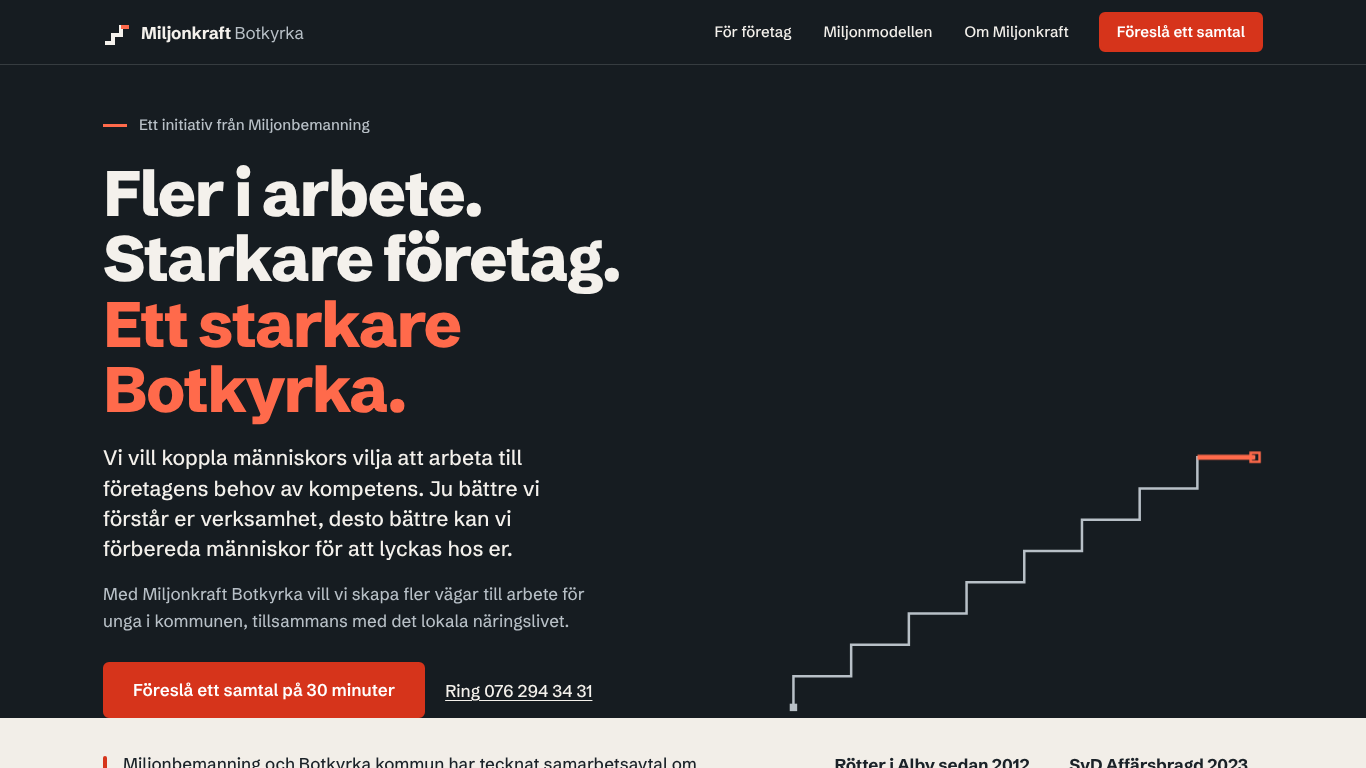
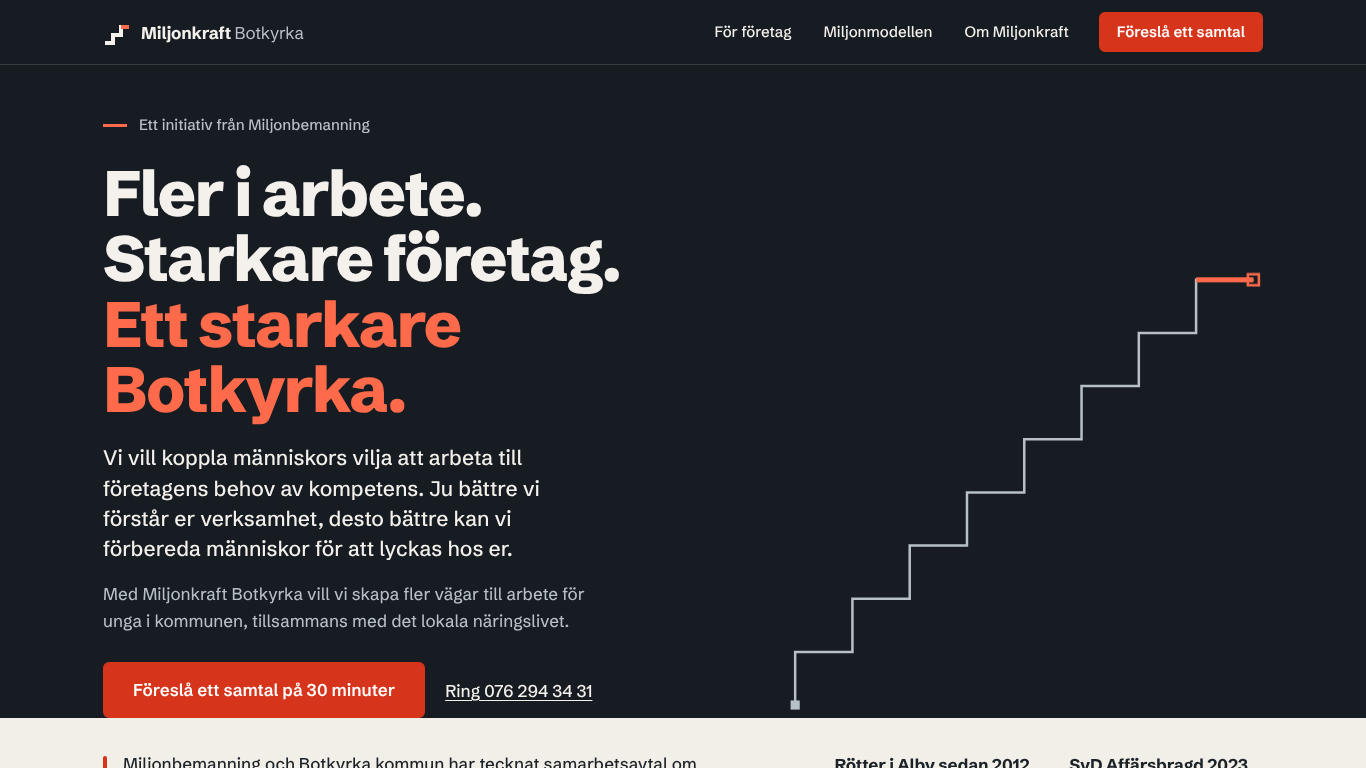
Visuella justeringar efter granskning
Karriärstegen och Miljonmodellen som sammanhängande trappor med sättsteg,
högre trappa i hero, Vision som tvådelad komposition, vänsterställd FAQ,
linjer över hela bredden, e-postadress med avsedd brytpunkt.

Claude-Session: https://claude.ai/code/session_01BuzocmkRL4Yax2kVTagQ34

diff --git a/src/styles/global.css b/src/styles/global.css
@@ -234,6 +234,10 @@ p + p { margin-top: 1em; }
 .hero__phone { display: inline-flex; align-items: center; min-height: 2.75rem; color: var(--on-dark); font-weight: 500; }
 .hero__graphic { width: 100%; max-width: 40rem; justify-self: end; margin-top: 0.5rem; }
 .hero__graphic svg { width: 100%; height: auto; }
+@media (min-width: 1024px) {
+  .hero__graphic { align-self: stretch; display: flex; align-items: flex-end; justify-content: flex-end; max-width: 32rem; }
+  .hero__graphic--desktop { width: 100%; max-height: 36rem; }
+}
 .stair__line { stroke: var(--on-dark-muted); stroke-dasharray: 1; stroke-dashoffset: 0; }
 .stair__start { fill: var(--on-dark-muted); }
 .stair__top { stroke: var(--accent-dark); }
@@ -302,7 +306,7 @@ p + p { margin-top: 1em; }
 
 /* ---------- Miljonmodellen ---------- */
 .model__intro p + p { margin-top: 0.875em; }
-.steps-label { margin-top: 3rem; margin-bottom: 1.25rem; font-weight: 600; font-size: var(--text-small); color: var(--muted); display: flex; align-items: center; gap: 0.75rem; }
+.steps-label { max-width: none; margin-top: 3rem; margin-bottom: 1.25rem; font-weight: 600; font-size: var(--text-small); color: var(--muted); display: flex; align-items: center; gap: 0.75rem; }
 .steps-label::after { content: ''; flex: 1; height: 1px; background: var(--line); }
 .steps { display: grid; gap: 0; counter-reset: step; position: relative; }
 .steps li { position: relative; counter-increment: step; display: grid; grid-template-columns: 2.75rem 1fr; gap: 0 0.75rem; padding: 0.875rem 0 0.875rem; }
@@ -317,21 +321,24 @@ p + p { margin-top: 1em; }
 .steps p { grid-column: 2; color: var(--muted); font-size: var(--text-small); line-height: 1.5; max-width: 32ch; }
 /* Mobil: en lodrät trappa med en linje som binder ihop stegen. */
 .steps li:not(:last-child)::after { content: ''; position: absolute; left: calc(1.25rem - 1px); top: 3.4rem; bottom: -0.5rem; width: 2px; background: var(--line); }
+@media (min-width: 640px) and (max-width: 1023.98px) {
+  .steps li::after { display: none; }
+}
 @media (min-width: 640px) {
   .steps { grid-template-columns: repeat(2, minmax(0, 1fr)); gap: 0.5rem 2rem; }
-  .steps li::after { display: none; }
   .steps li { padding: 1rem 0; border-top: 1px solid var(--line); }
 }
 @media (min-width: 1024px) {
-  /* Fyra steg per rad. Varje steg står lite högre än det föregående, som en trappa. */
-  .steps { grid-template-columns: repeat(4, minmax(0, 1fr)); gap: 2.5rem 2rem; align-items: start; }
+  /* Fyra steg per rad. Varje steg står 1rem högre än det föregående och binds ihop med ett sättsteg, som en trappa. */
+  .steps { grid-template-columns: repeat(4, minmax(0, 1fr)); gap: 1.5rem 2rem; align-items: start; }
   .steps li { display: block; padding: 1rem 0 0; border-top: 2px solid var(--line-strong); }
   .steps li::before { margin-bottom: 0.875rem; }
+  .steps li:not(:nth-child(4n))::after { content: ''; position: absolute; top: -1rem; left: 100%; width: 2rem; height: 1rem; border-right: 2px solid var(--line-strong); border-bottom: 2px solid var(--line-strong); display: block; background: none; bottom: auto; }
   .steps h3 { min-height: 0; display: block; }
   .steps p { max-width: none; margin-top: 0.375rem; }
-  .steps li:nth-child(4n + 1) { margin-top: 3.75rem; }
-  .steps li:nth-child(4n + 2) { margin-top: 2.5rem; }
-  .steps li:nth-child(4n + 3) { margin-top: 1.25rem; }
+  .steps li:nth-child(4n + 1) { margin-top: 3rem; }
+  .steps li:nth-child(4n + 2) { margin-top: 2rem; }
+  .steps li:nth-child(4n + 3) { margin-top: 1rem; }
   .steps li:nth-child(4n + 4) { margin-top: 0; }
 }
 
@@ -352,24 +359,24 @@ p + p { margin-top: 1em; }
 }
 .path li[data-kind='role'] .path__tread { background: var(--dark); color: var(--on-dark); }
 .path li[data-kind='skill'] .path__tread { border: 2px dashed var(--accent); color: var(--accent-text); background: transparent; font-weight: 500; }
-.path__kind { display: block; font-size: 0.8125rem; font-weight: 500; margin-bottom: 0.125rem; }
-.path li[data-kind='role'] .path__kind { color: var(--on-dark-muted); }
-.path li[data-kind='skill'] .path__kind { color: var(--accent-text); }
+.path__kind { position: absolute; width: 1px; height: 1px; overflow: hidden; clip: rect(0 0 0 0); white-space: nowrap; }
 /* Mobil: varje steg står ett snäpp längre till höger än det förra. */
 .path li:nth-child(2) { margin-left: 0.75rem; }
 .path li:nth-child(3) { margin-left: 1.5rem; }
 .path li:nth-child(4) { margin-left: 2.25rem; }
 .path li:nth-child(5) { margin-left: 3rem; }
 @media (min-width: 1024px) {
-  .path { grid-template-columns: repeat(5, minmax(0, 1fr)); gap: 0 0.75rem; align-items: end; }
-  .path li { margin-left: 0 !important; }
+  /* Fem steg som stiger åt höger. Varje steg står 1.5rem högre än det förra, med ett sättsteg emellan. */
+  .path { grid-template-columns: repeat(5, minmax(0, 1fr)); gap: 0 1.5rem; align-items: end; }
+  .path li { margin-left: 0 !important; position: relative; }
   .path li::before { content: ''; display: block; border-top: 2px solid var(--line-strong); margin-bottom: 0.75rem; }
-  .path li:nth-child(1) { padding-top: 6rem; }
-  .path li:nth-child(2) { padding-top: 4.5rem; }
-  .path li:nth-child(3) { padding-top: 3rem; }
-  .path li:nth-child(4) { padding-top: 1.5rem; }
-  .path li:nth-child(5) { padding-top: 0; }
-  .path__tread { min-height: 5.5rem; display: flex; flex-direction: column; justify-content: center; }
+  .path li:not(:last-child)::after { content: ''; position: absolute; top: 0; left: 100%; width: 1.5rem; height: 1.5rem; margin-top: -1.5rem; border-right: 2px solid var(--line-strong); border-bottom: 2px solid var(--line-strong); }
+  .path li:nth-child(1) { padding-bottom: 0; }
+  .path li:nth-child(2) { padding-bottom: 1.5rem; }
+  .path li:nth-child(3) { padding-bottom: 3rem; }
+  .path li:nth-child(4) { padding-bottom: 4.5rem; }
+  .path li:nth-child(5) { padding-bottom: 6rem; }
+  .path__tread { min-height: 4.5rem; display: flex; flex-direction: column; justify-content: center; padding: 0.875rem 1rem; }
 }
 
 /* ---------- Om Miljonbemanning ---------- */
@@ -386,10 +393,14 @@ p + p { margin-top: 1em; }
 }
 
 /* ---------- Vision ---------- */
-.vision__statement { font-size: clamp(1.25rem, 1.1rem + 0.9vw, 1.75rem); font-weight: 600; line-height: 1.3; letter-spacing: -0.015em; max-width: 30ch; margin-top: 1.25rem; }
-.vision__columns { display: grid; gap: 1.5rem; margin-top: 2rem; }
+.vision__grid { display: grid; gap: 1.5rem; margin-top: 1.25rem; }
+.vision__statement { font-size: clamp(1.25rem, 1.1rem + 0.9vw, 1.75rem); font-weight: 600; line-height: 1.3; letter-spacing: -0.015em; max-width: 26ch; }
 .vision__columns p { color: var(--ink); }
-@media (min-width: 900px) { .vision__columns { grid-template-columns: 1fr 1fr; gap: 3rem; } }
+.vision__columns p + p { margin-top: 1em; }
+@media (min-width: 900px) {
+  .vision__grid { grid-template-columns: minmax(0, 1.1fr) minmax(0, 1fr); gap: 4rem; align-items: start; margin-top: 2rem; }
+  .vision__columns { padding-top: 0.35rem; }
+}
 
 /* ---------- Bokning ---------- */
 .booking { background: var(--surface); border-top: 1px solid var(--line); }
@@ -417,7 +428,8 @@ p + p { margin-top: 1em; }
 .booking__name { font-weight: 700; font-size: 1.25rem; letter-spacing: -0.01em; }
 .booking__role { color: var(--muted); margin-top: 0.25rem; line-height: 1.45; }
 .booking__contact { display: grid; gap: 0.5rem; margin-top: 1.25rem; }
-.booking__contact a { display: inline-flex; align-items: center; min-height: 2.75rem; font-weight: 600; overflow-wrap: anywhere; }
+.booking__contact a { display: inline-flex; align-items: center; min-height: 2.75rem; font-weight: 600; overflow-wrap: normal; }
+@media (max-width: 339.98px) { .booking__contact a { overflow-wrap: anywhere; font-size: var(--text-small); } }
 .booking__embed { grid-column: 1 / -1; }
 .booking__embed-link { margin-bottom: 0.75rem; font-weight: 500; }
 .booking__frame { min-height: var(--embed-height); background: var(--surface-2); border: 1px solid var(--line); border-radius: var(--radius); display: grid; place-items: center; padding: 1.5rem; }
@@ -429,7 +441,7 @@ p + p { margin-top: 1em; }
 }
 
 /* ---------- FAQ ---------- */
-.faq__inner { max-width: 46rem; }
+.faq__heading, .faq__list { max-width: 46rem; }
 .faq__list { margin-top: 1.5rem; border-top: 1px solid var(--line); }
 .faq__item { border-bottom: 1px solid var(--line); }
 .faq__question {
@@ -454,7 +466,7 @@ p + p { margin-top: 1em; }
 .site-footer__byline { color: var(--on-dark-muted); font-size: var(--text-small); }
 .site-footer__nav ul { display: flex; flex-wrap: wrap; gap: 0.25rem 1.5rem; }
 .site-footer__nav a { display: inline-flex; align-items: center; min-height: 2.75rem; color: var(--on-dark); font-weight: 500; }
-.site-footer__legal { color: var(--on-dark-muted); font-size: var(--text-small); }
+.site-footer__legal { max-width: none; color: var(--on-dark-muted); font-size: var(--text-small); }
 @media (min-width: 768px) {
   .site-footer__inner { grid-template-columns: 1fr auto; align-items: start; }
   .site-footer__legal { grid-column: 1 / -1; padding-top: 1.5rem; border-top: 1px solid var(--line-dark); }

diff --git a/docs/HANDOVER.md b/docs/HANDOVER.md
@@ -40,13 +40,13 @@ Inte använda: image-to-code (ingen visuell förlaga fanns), Awesome DESIGN.md (
 
 ## 3. Designriktning
 
-Två riktningar togs fram av en oberoende panel och bedömdes.
+Tre oberoende designförslag togs fram parallellt och bedömdes av två domare (en kundlins, en hantverkslins). De två starkaste:
 
-**Riktning A, Strecket.** Varumärkeskontinuitet först. Miljonbemannings skiffer och rödorange, Plus Jakarta Sans, det lilla strecket ur logotypen som enda motiv (ett streck markerar avsändaren, åtta stigande streck bär modellen). Mörk inledning och mörk bokningsdel som bokstöd.
+**Riktning A, Strecket.** Varumärkeskontinuitet först. Miljonbemannings skiffer och rödorange, Plus Jakarta Sans, det lilla strecket ur logotypen som enda motiv (ett streck markerar avsändaren, åtta stigande streck bär modellen). Mörk inledning och mörk bokningsdel som bokstöd. Domarpoäng 48 + 47.
 
-**Riktning B, Trappsteget.** Motiv först. En enda stigande trapplinje som börjar vid bokningsknappen, blir Miljonmodellens åtta steg och Karriärstegens exempel. Schibsted Grotesk i en familj, mörk inledning, ljusa varma läsytor, accenten bara som linje och markering.
+**Riktning B, Trappsteget.** Motiv först. En enda stigande trapplinje som börjar vid bokningsknappen, blir Miljonmodellens åtta steg och Karriärstegens exempel. Schibsted Grotesk i en familj, mörk inledning, ljusa varma läsytor, accenten bara som linje och markering. Domarpoäng 49 + 42.
 
-Vald riktning är **B** med två idéer från A inympade: strecket som avsändarmarkering före bylinen och statusraden, och en strikt accentdisciplin där den råa varumärkesfärgen aldrig används som text.
+Domarna delade sig (kundlinsen valde B, hantverkslinsen A). Den byggda sidan är en syntes med **B som stomme**: trapplinjen som motiv, Schibsted Grotesk, mörk inledning och ljusa läsytor. Från A hämtades strecket som avsändarmarkering före bylinen och statusraden, den fasta mobilknappen, tyngre textvikt på mörk yta och en strikt accentdisciplin där den råa varumärkesfärgen aldrig används som text. Hantverksdomarens invändning mot B (att trappgeometrin inte höll ihop) är hanterad genom att samma stegproportion används i hero, Miljonmodellen och Karriärstegen, och genom att linjen landar i en fylld nod vid bokningsrubriken.
 
 Fem designbeslut:
 
@@ -73,5 +73,5 @@ Se `README.md`. Kort: all text, kontaktuppgifter, produktionsadress och boknings
 ## 6. Kända avvägningar
 
 - Heron har fem textelement (byline, rubrik, två stycken, knappar) eftersom masterprompten fastslår två stycken. Knappen ligger ovanför vikningen på 390 × 844, 768 och 1440 × 900. På 320 × 568 hamnar den strax under, och den fasta mobilknappen tar vid när hero-knappen passerats.
-- Rubriken bryts på fyra rader på dator (den tredje meningen bryts efter "starkare") och tre rader på surfplatta. Det är ett medvetet val för att hålla rubrikstorleken stark.
+- Rubriken bryts på fyra rader på dator (den tredje meningen bryts medvetet efter "starkare" från 1024 px) och tre rader på surfplatta. Det håller rubrikstorleken stark och knappen ovanför vikningen på 1366 × 768.
 - Mejlförslaget i contact_only innehåller inga kolon. Mallens rader är meningsstarter som ifyllaren fullföljer.
